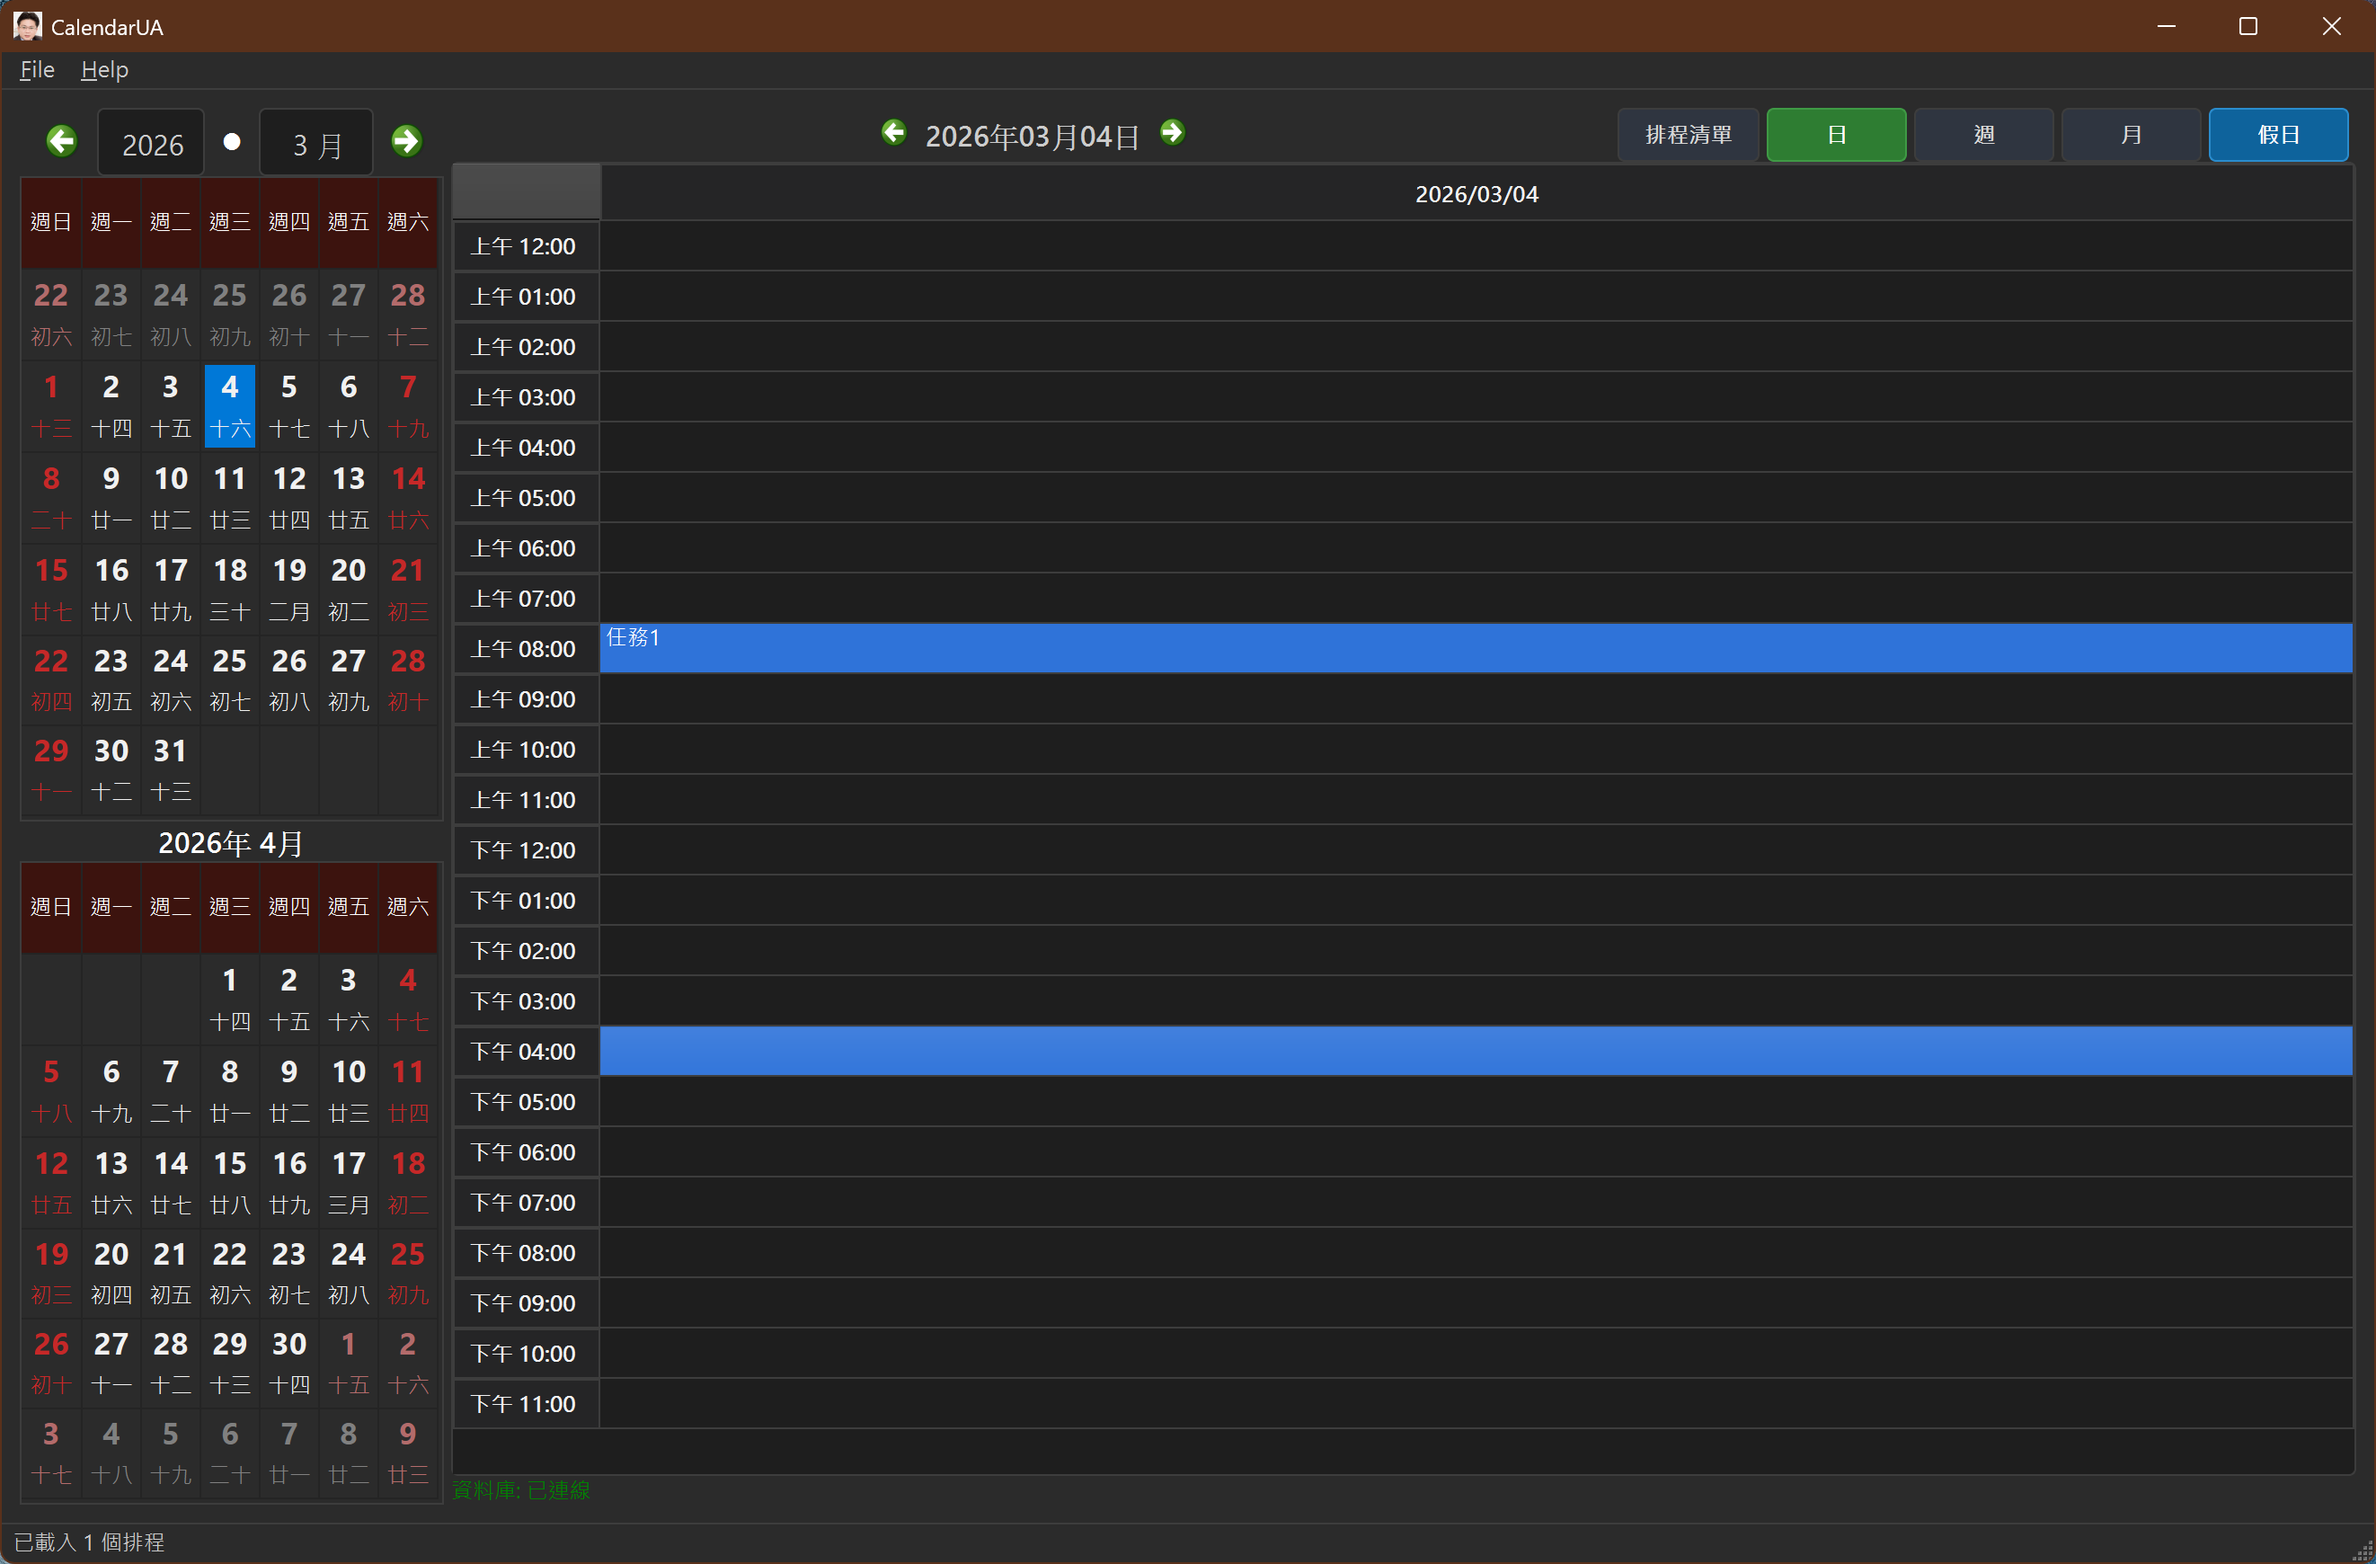
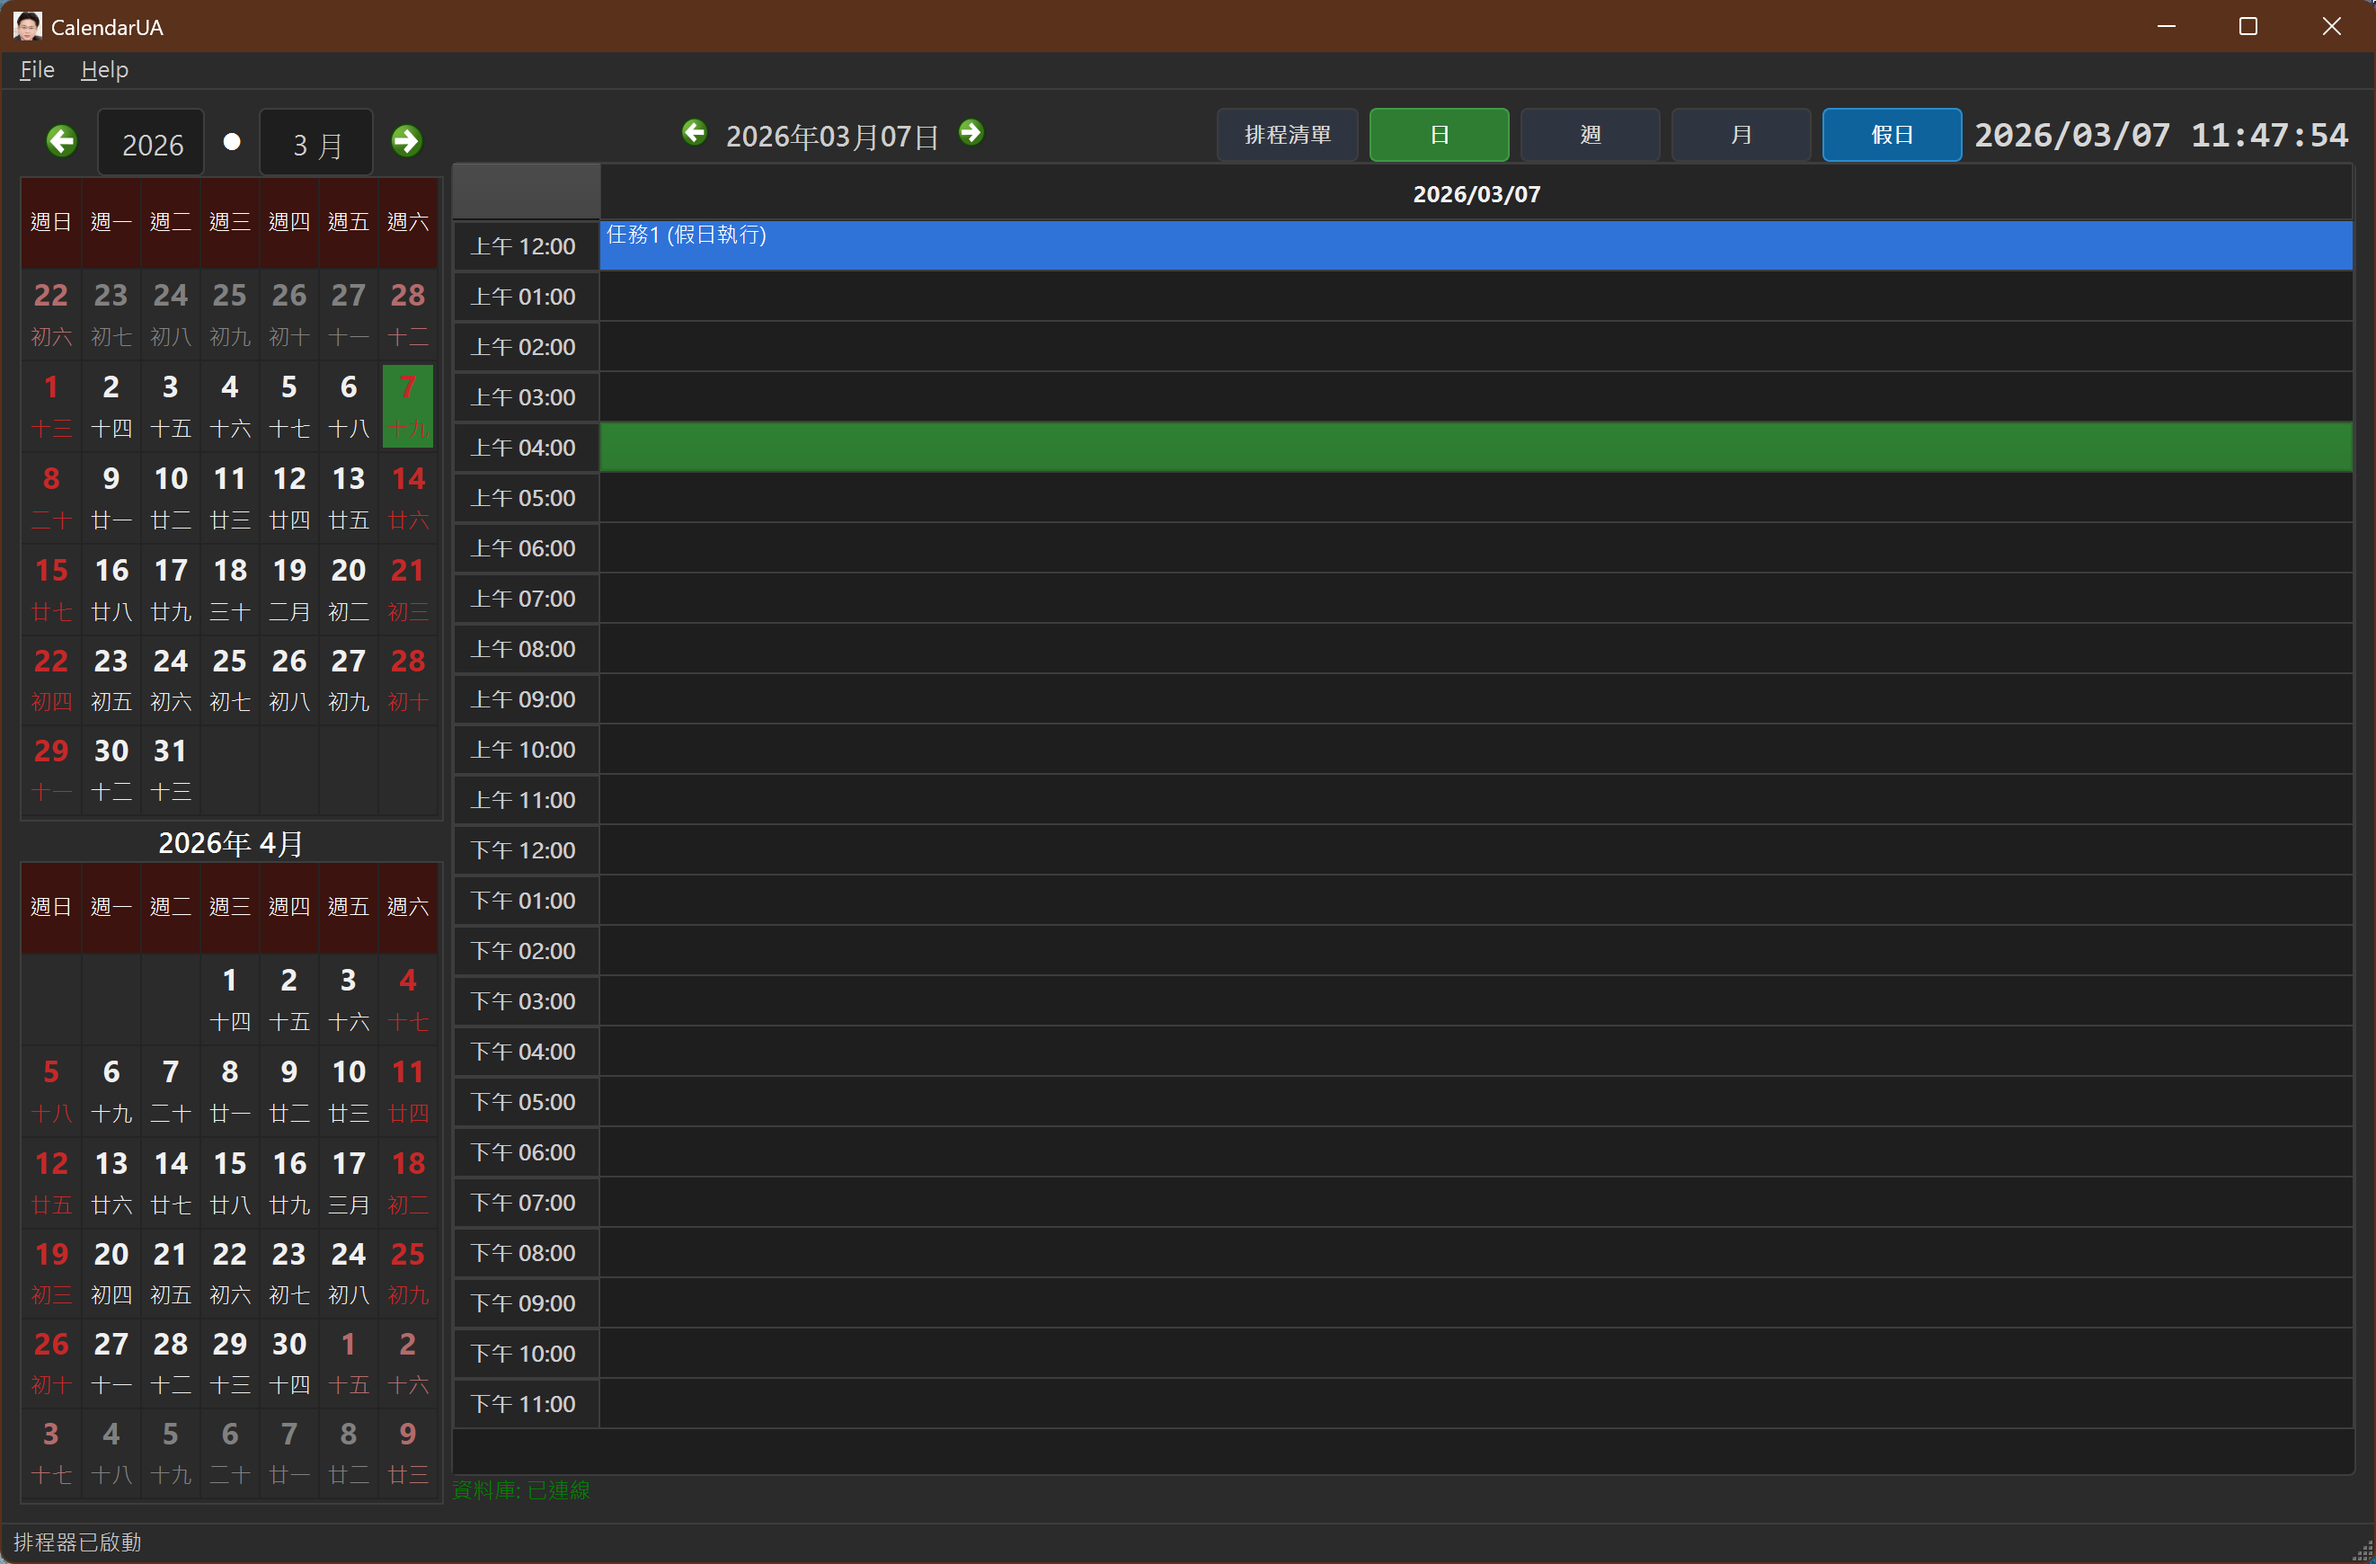
Remove v3.0.0 tag, bump to v4.0.0; UI: enlarge system datetime label and adjust calendar popup

diff --git a/ui/recurrence_dialog.py b/ui/recurrence_dialog.py
@@ -26,7 +26,7 @@ from PySide6.QtWidgets import (
     QStyle,
 )
 from PySide6.QtCore import Qt, QDate, QTime, Signal, QEvent, QSize, QLocale, QPoint, QTimer
-from PySide6.QtGui import QFont, QColor
+from PySide6.QtGui import QFont, QColor, QGuiApplication
 import sys
 from datetime import date as dt_date
 
@@ -57,7 +57,7 @@ class DropdownNavCalendar(QCalendarWidget):
         self.setLocale(QLocale(QLocale.Chinese, QLocale.Taiwan))
         self.setVerticalHeaderFormat(QCalendarWidget.NoVerticalHeader)
         self.setHorizontalHeaderFormat(QCalendarWidget.ShortDayNames)
-        self.setMinimumSize(250, 230)
+        self.setMinimumSize(280, 270)
 
         header_widget = QWidget(self)
         header_layout = QHBoxLayout(header_widget)
@@ -105,7 +105,7 @@ class DropdownNavCalendar(QCalendarWidget):
             """
             QComboBox {
                 font-family: 'Segoe UI';
-                font-size: 16px;
+                font-size: 15px;
                 padding-right: 2px;
             }
             QComboBox QAbstractItemView {
@@ -275,18 +275,18 @@ class DropdownNavCalendar(QCalendarWidget):
         solar_font = QFont(painter.font())
         solar_font.setFamily("Segoe UI")
         solar_font.setBold(True)
-        solar_font.setPointSize(13)
+        solar_font.setPointSize(12)
         painter.setFont(solar_font)
-        top_rect = rect.adjusted(0, 1, 0, -rect.height() // 2)
+        top_rect = rect.adjusted(0, 2, 0, -int(rect.height() * 0.48))
         painter.drawText(top_rect, Qt.AlignHCenter | Qt.AlignVCenter, str(date.day()))
 
         if lunar_text:
             lunar_font = QFont(painter.font())
             lunar_font.setFamily("Microsoft JhengHei")
             lunar_font.setBold(False)
-            lunar_font.setPointSize(9)
+            lunar_font.setPointSize(8)
             painter.setFont(lunar_font)
-            bottom_rect = rect.adjusted(0, rect.height() // 2 - 1, 0, 0)
+            bottom_rect = rect.adjusted(0, int(rect.height() * 0.50), 0, -1)
             painter.drawText(bottom_rect, Qt.AlignHCenter | Qt.AlignVCenter, lunar_text)
 
         painter.restore()
@@ -475,9 +475,30 @@ class PopupDateEdit(QDateEdit):
         if calendar is None:
             return
         calendar.setSelectedDate(self.date())
-        if calendar.height() < 230:
-            calendar.resize(max(calendar.width(), 250), 230)
+        min_width = 280
+        min_height = 270
+        if calendar.width() < min_width or calendar.height() < min_height:
+            calendar.resize(max(calendar.width(), min_width), max(calendar.height(), min_height))
+
         popup_pos = self.mapToGlobal(QPoint(0, self.height()))
+
+        screen = QGuiApplication.screenAt(popup_pos)
+        if screen is None:
+            screen = QGuiApplication.primaryScreen()
+        if screen is not None:
+            available = screen.availableGeometry()
+
+            # 優先顯示在輸入框下方，若空間不足則顯示於上方。
+            if popup_pos.y() + calendar.height() > available.bottom():
+                popup_pos.setY(self.mapToGlobal(QPoint(0, 0)).y() - calendar.height())
+
+            if popup_pos.x() + calendar.width() > available.right():
+                popup_pos.setX(max(available.left(), available.right() - calendar.width()))
+            if popup_pos.x() < available.left():
+                popup_pos.setX(available.left())
+            if popup_pos.y() < available.top():
+                popup_pos.setY(available.top())
+
         calendar.move(popup_pos)
         calendar.show()
         calendar.raise_()

diff --git a/CalendarUA.py b/CalendarUA.py
@@ -687,7 +687,12 @@ class CalendarUA(QMainWindow):
         view_toolbar.addWidget(self.btn_main_next)
         view_toolbar.addStretch()
 
-        # 右側按鈕區：日/週/月/假日（可高亮）
+        # 右側工具區：日/週/月/假日（可高亮）+ 系統時間
+        right_tools_widget = QWidget()
+        right_tools_layout = QHBoxLayout(right_tools_widget)
+        right_tools_layout.setContentsMargins(0, 0, 0, 0)
+        right_tools_layout.setSpacing(6)
+
         self.btn_view_schedule_list = QPushButton("排程清單")
         self.btn_view_day = QPushButton("日")
         self.btn_view_week = QPushButton("週")
@@ -696,12 +701,25 @@ class CalendarUA(QMainWindow):
         for btn in (self.btn_view_schedule_list, self.btn_view_day, self.btn_view_week, self.btn_view_month):
             btn.setCheckable(True)
             btn.setMinimumWidth(48 if btn != self.btn_view_schedule_list else 88)
-            view_toolbar.addWidget(btn)
+            right_tools_layout.addWidget(btn)
         self.btn_holiday_settings.setCheckable(False)
         self.btn_holiday_settings.setMinimumWidth(48)
-        view_toolbar.addWidget(self.btn_holiday_settings)
+        right_tools_layout.addWidget(self.btn_holiday_settings)
+
+        self.system_datetime_label = QLabel("")
+        self.system_datetime_label.setObjectName("systemDateTimeLabel")
+        self.system_datetime_label.setAlignment(Qt.AlignRight | Qt.AlignVCenter)
+        self.system_datetime_label.setMinimumWidth(190)
+        right_tools_layout.addWidget(self.system_datetime_label)
+
+        view_toolbar.addWidget(right_tools_widget, 0, Qt.AlignRight | Qt.AlignVCenter)
 
         right_layout.addLayout(view_toolbar)
+
+        self._datetime_timer = QTimer(self)
+        self._datetime_timer.timeout.connect(self._update_system_datetime_label)
+        self._datetime_timer.start(1000)
+        self._update_system_datetime_label()
 
         # 主行事曆視圖堆疊
         self.calendar_stack = QStackedWidget()
@@ -1104,6 +1122,20 @@ class CalendarUA(QMainWindow):
                 }
             """
         self.btn_holiday_settings.setStyleSheet(holiday_style)
+
+        if hasattr(self, "system_datetime_label"):
+            if is_dark:
+                self.system_datetime_label.setStyleSheet(
+                    "color: #d6d6d6; font-family: 'Consolas'; font-size: 20px; font-weight: 800;"
+                )
+            else:
+                self.system_datetime_label.setStyleSheet(
+                    "color: #2f2f2f; font-family: 'Consolas'; font-size: 20px; font-weight: 800;"
+                )
+
+    def _update_system_datetime_label(self):
+        if hasattr(self, "system_datetime_label"):
+            self.system_datetime_label.setText(datetime.now().strftime("%Y/%m/%d %H:%M:%S"))
 
     def _apply_light_theme(self):
         """套用亮色主題"""
